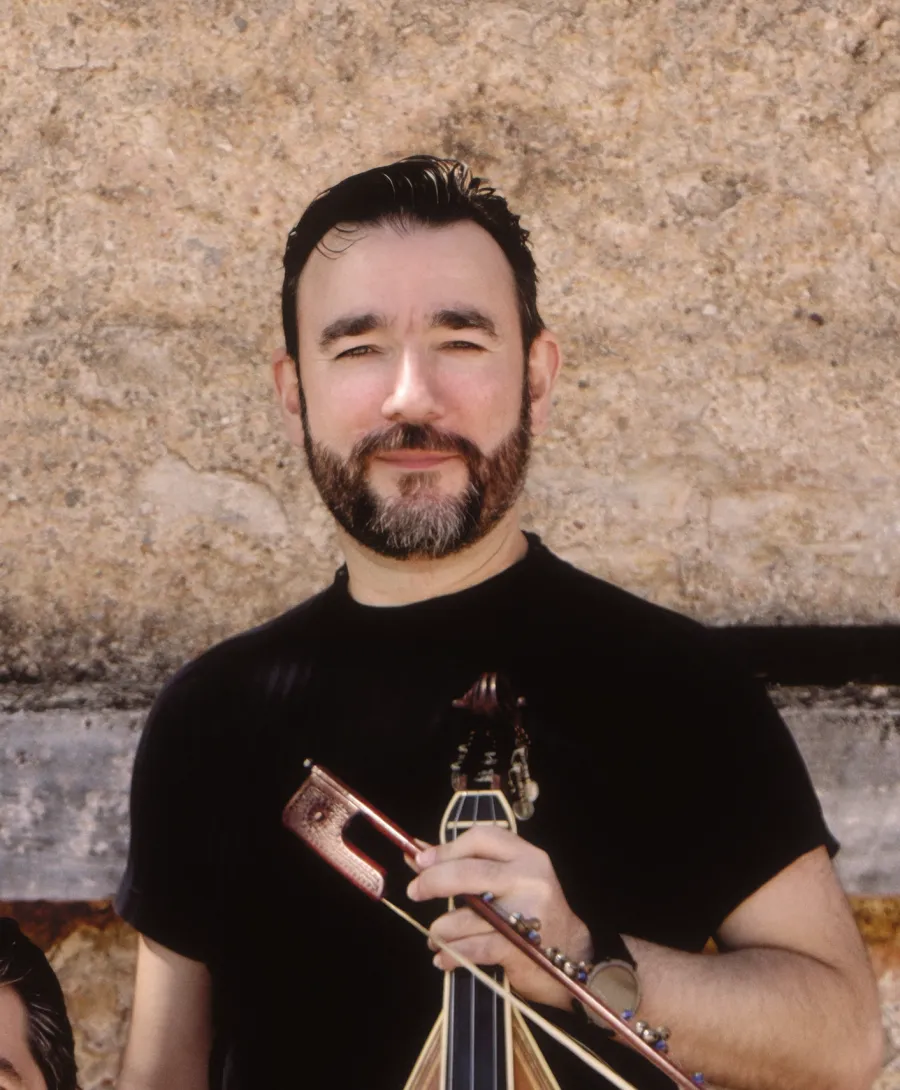
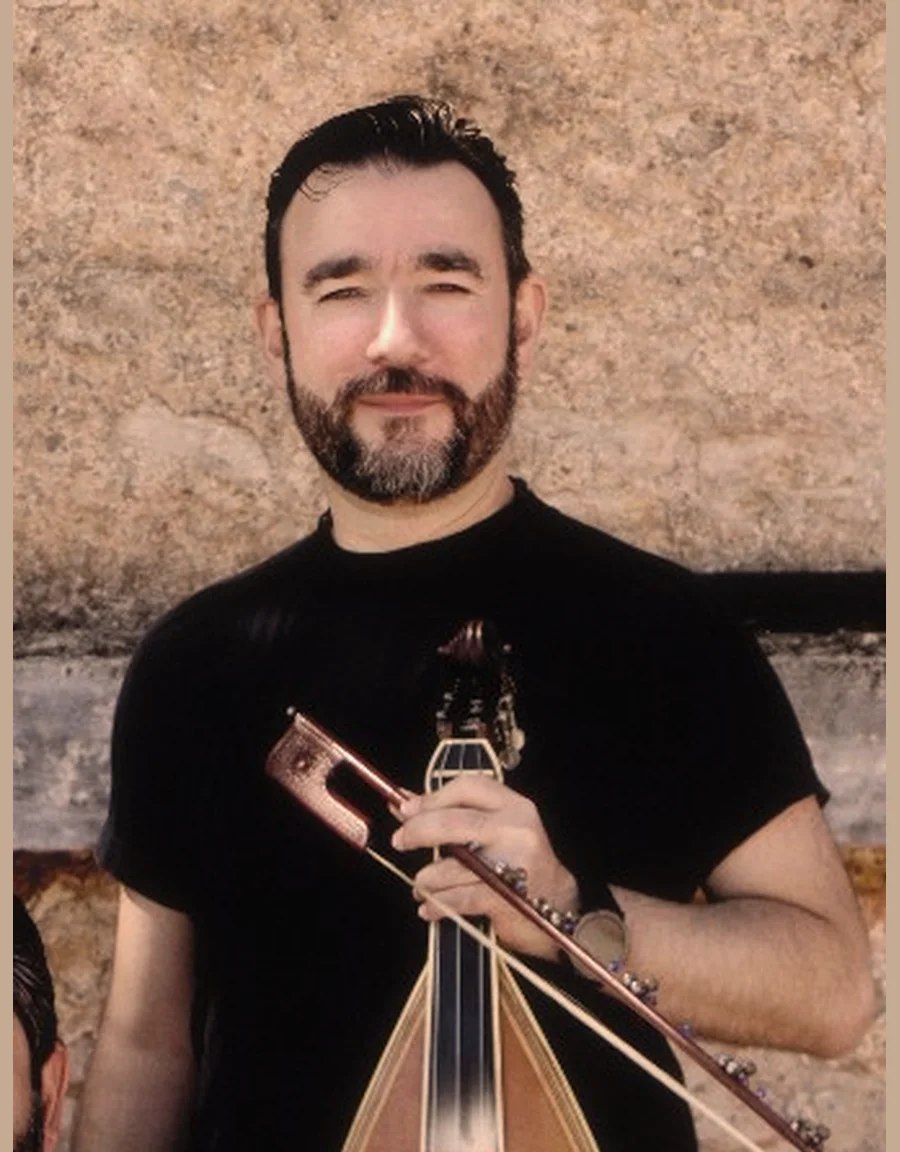
Refresh member portraits and fix responsive YouTube embed.
Re-export lyra, laouto, percussion, winds, and bass cards with consistent framing; add source originals and ignore local crop tooling.

diff --git a/src/data/content.ts b/src/data/content.ts
@@ -19,32 +19,31 @@ export type Member = {
 export const members: Member[] = [
   {
     id: 'lyra',
-    image: '/images/band/members/laouto-flute.webp',
+    image: '/images/band/members/laouto-flute.webp?v=22',
     role: { el: 'Κρητική λύρα', en: 'Cretan lyra' },
     name: { el: 'Μανώλης Μολυμπάκης (Μολυμπής)', en: 'Manolis Molybakis (Molybis)' },
   },
   {
     id: 'laouto',
-    image: '/images/band/members/laouto.webp',
+    image: '/images/band/members/laouto.webp?v=2',
     role: { el: 'Κρητικό και στεριανό λαούτο, ούτι', en: 'Cretan and mainland laouto, oud' },
     name: { el: 'Αβραάμ Αβραμίδης', en: 'Avraam Avramidis' },
   },
   {
     id: 'winds',
-    image: '/images/band/members/flute.webp',
+    image: '/images/band/members/winds.webp',
     role: { el: 'Φλάουτο άλτο, πνευστά, μπαντουράκια', en: 'Alto flute, winds, mandourakia' },
     name: { el: 'Νίκος Κατριτζιδάκης', en: 'Nikos Katritzidakis' },
   },
   {
     id: 'percussion',
-    image: '/images/band/members/defi.webp',
-    photoAspect: '1400 / 1089',
+    image: '/images/band/members/percussion.webp?v=4',
     role: { el: 'Κρουστά — μπεντίρ, νταουλάκι', en: 'Percussion — bendir, daoulaki' },
     name: { el: 'Ιάκωβος Μολυμπάκης', en: 'Iakovos Molybakis' },
   },
   {
     id: 'bass',
-    initials: 'ΝΚ',
+    image: '/images/band/members/bass.webp',
     role: { el: 'Κοντραμπάσο', en: 'Double bass' },
     name: { el: 'Νίκος Καφετζής', en: 'Nikos Kafetzis' },
   },

diff --git a/src/styles/global.css b/src/styles/global.css
@@ -516,8 +516,10 @@ a {
 
 .video-frame {
   position: relative;
+  width: 100%;
+  max-width: 100%;
   aspect-ratio: 16 / 9;
-  max-width: 46rem;
+  overflow: hidden;
   background: var(--night-raise);
   border: 1px solid rgba(196, 170, 148, 0.32);
 }
@@ -525,6 +527,7 @@ a {
 .video-frame iframe {
   position: absolute;
   inset: 0;
+  display: block;
   width: 100%;
   height: 100%;
   border: 0;
@@ -586,17 +589,28 @@ a {
   letter-spacing: 0.04em;
 }
 
-.member-card[data-id="laouto"] .member-photo {
-  aspect-ratio: 1400 / 1237;
+.member-card[data-id="laouto"] .member-photo,
+.member-card[data-id="lyra"] .member-photo,
+.member-card[data-id="percussion"] .member-photo {
+  aspect-ratio: 900 / 1152;
 }
 
 .member-card[data-id="laouto"] .member-photo img {
   object-position: center center;
 }
 
+.member-card[data-id="lyra"] .member-photo img {
+  object-fit: contain;
+  object-position: center top;
+}
+
 .member-card[data-id="percussion"] .member-photo img {
   object-fit: contain;
-  object-position: center center;
+  object-position: center top;
+}
+
+.member-card[data-id="winds"] .member-photo img {
+  object-position: center 8%;
 }
 
 .member-card h3 {
